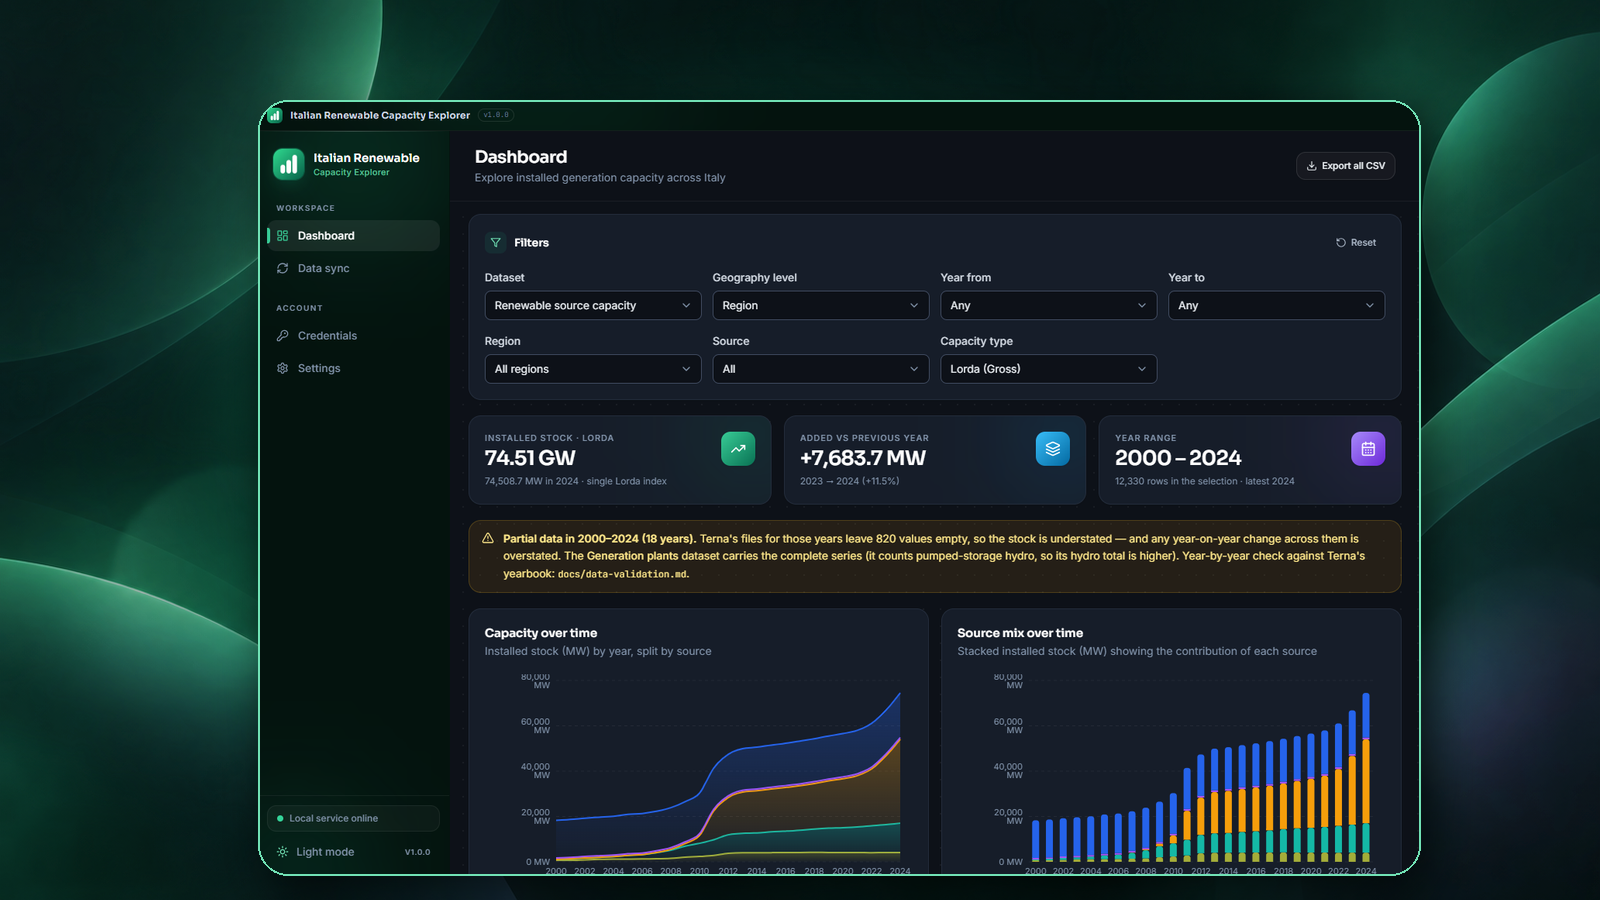
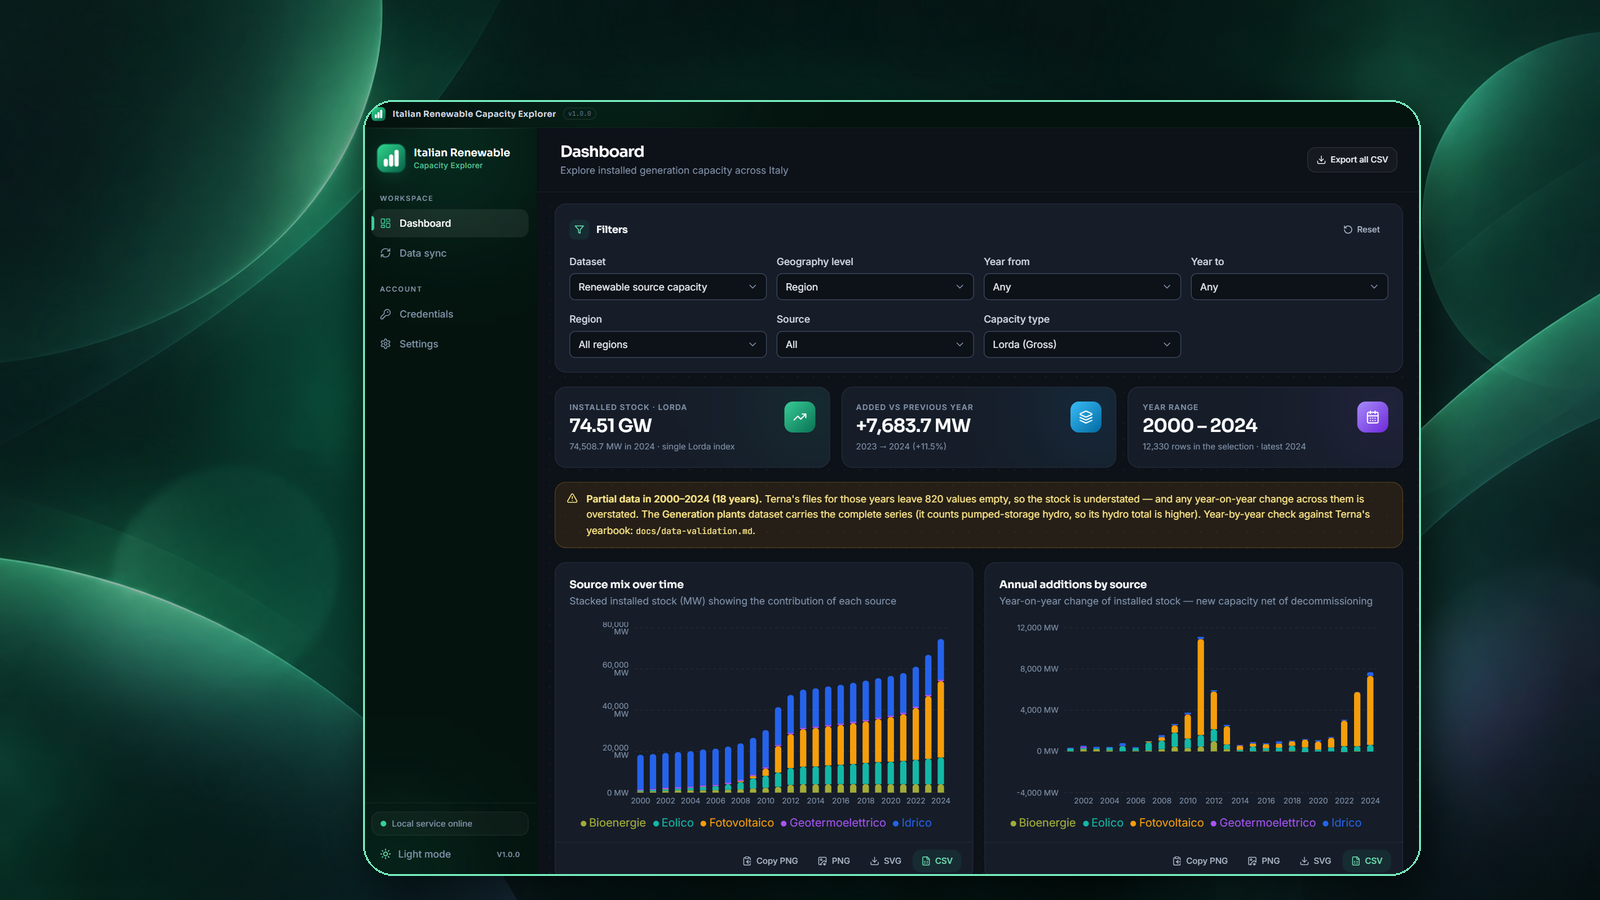
Refresh screenshots and social images for the four-card dashboard

diff --git a/README.md b/README.md
@@ -1,5 +1,7 @@
 # Italian Renewable Capacity Explorer
 
+![Italian Renewable Capacity Explorer banner](docs/readme-banner.png)
+
 ![Italian Renewable Capacity Explorer](docs/assets/readme-banner.png)
 
 **Explore Italy's renewable installed capacity — solar, wind, hydro, bioenergy and
